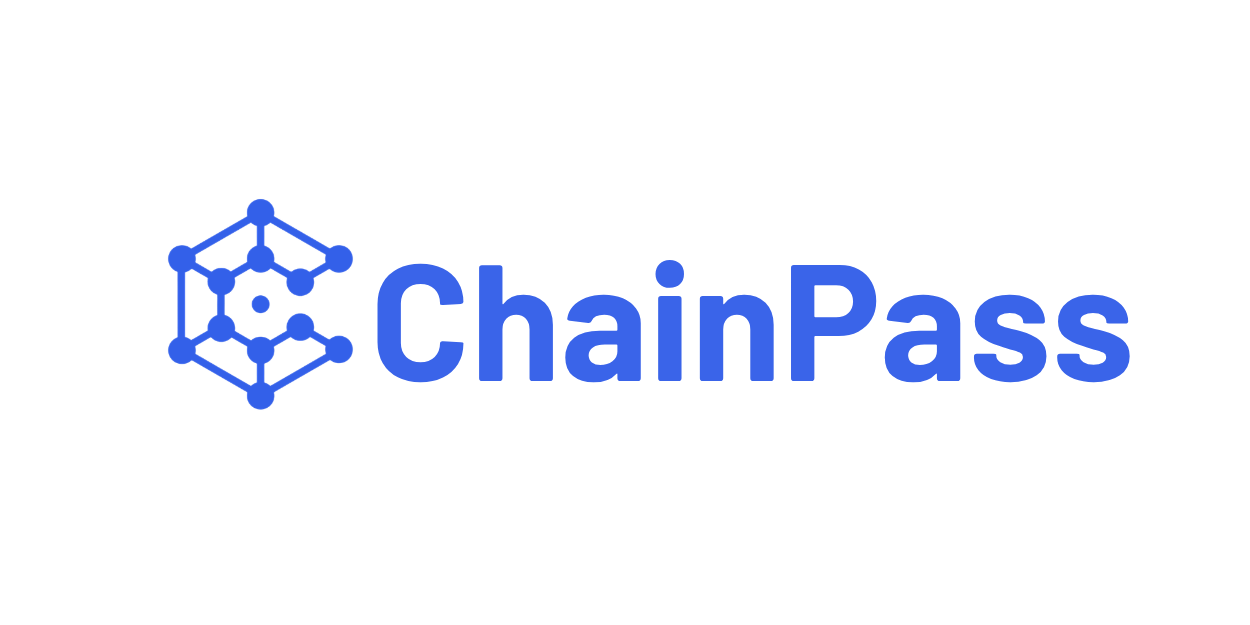
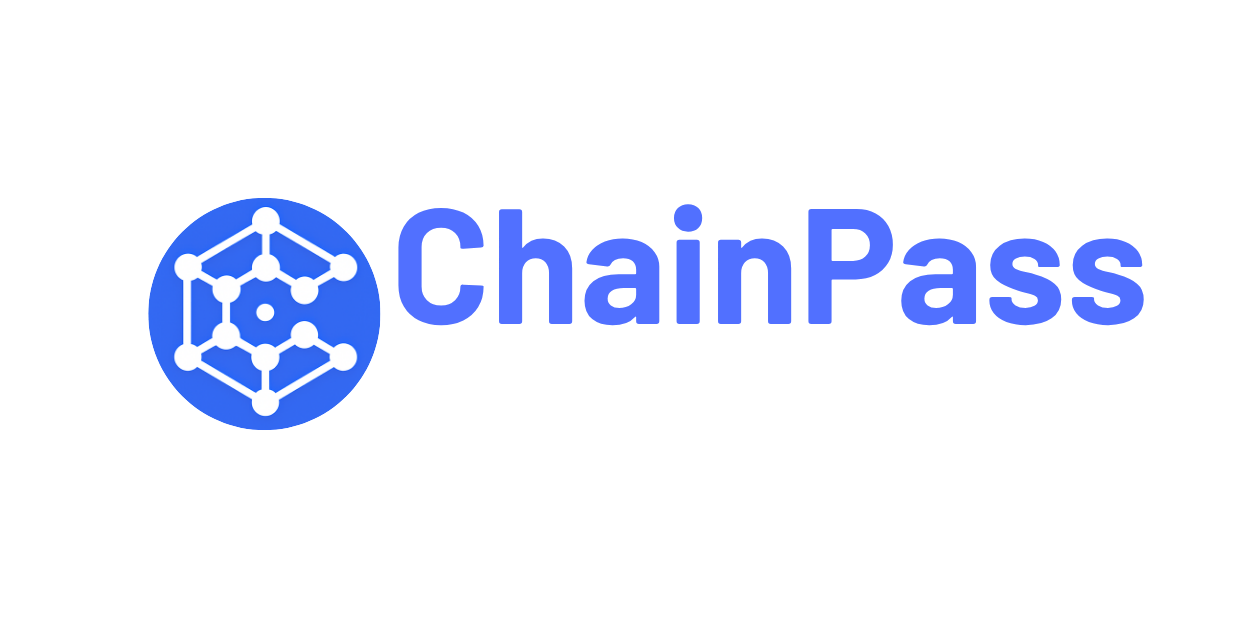
Update ChainPass asset and add 'Powered by' text
- Replaced chainpass-lockup.png with cp-ls-01-ch.png
- Added 'Powered by' text above ChainPass logo in appropriate styling

🤖 Generated with [Claude Code](https://claude.com/claude-code)

Changed region(s): [[0.0936, 0.304, 0.936, 0.6992]]

diff --git a/src/pages/ComingSoon.tsx b/src/pages/ComingSoon.tsx
@@ -194,6 +194,16 @@ export default function ComingSoon() {
 
             {/* ChainPass lockup centered below */}
             <div style={{ textAlign: 'center' }}>
+              <div style={{
+                fontSize: 'clamp(12px,1.5vw,14px)',
+                fontWeight: 700,
+                color: '#94A3B8',
+                textTransform: 'uppercase',
+                letterSpacing: '0.1em',
+                marginBottom: '8px'
+              }}>
+                Powered by
+              </div>
               <img
                 src="/chainpass-lockup.png"
                 alt="ChainPass - Zero Knowledge Architecture"
